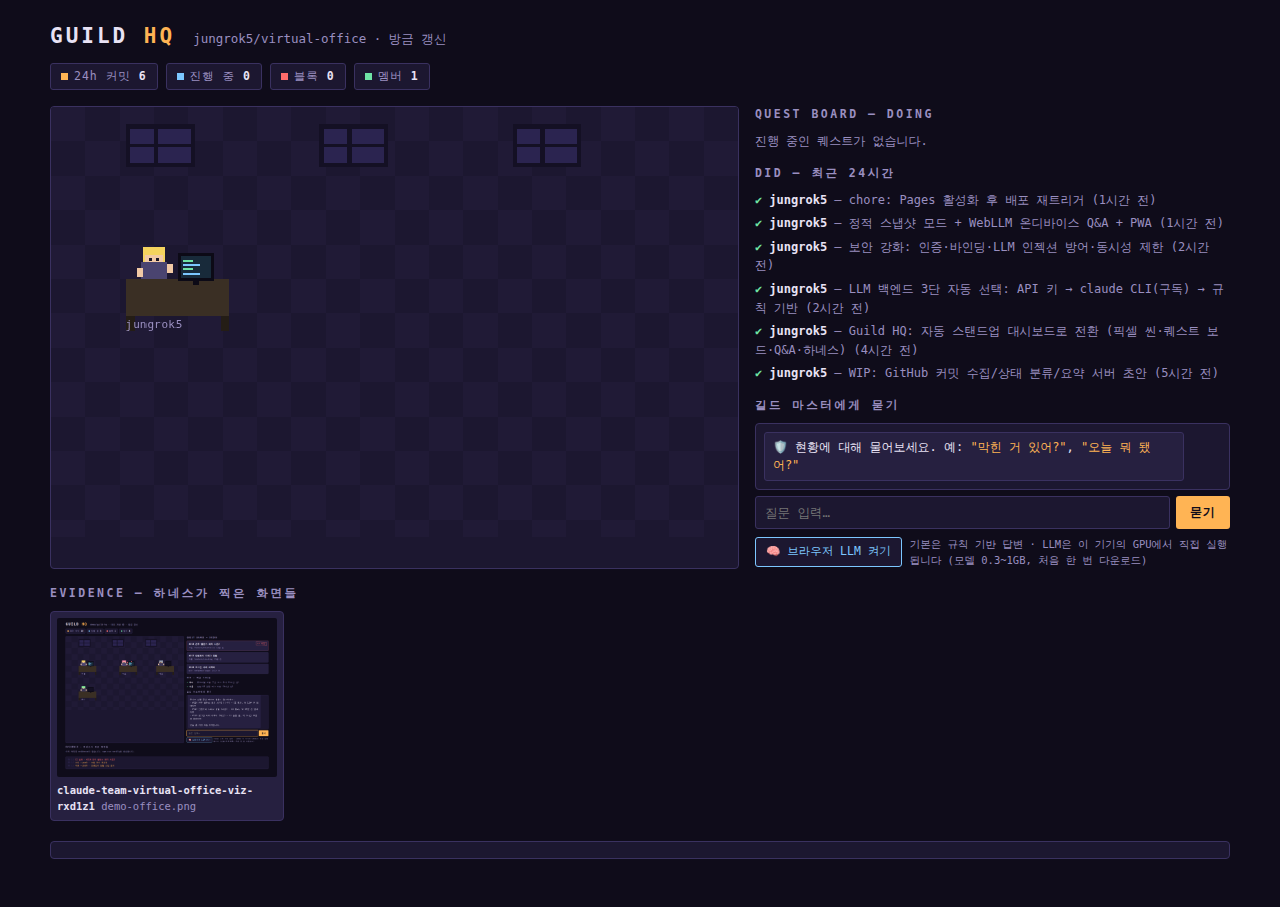
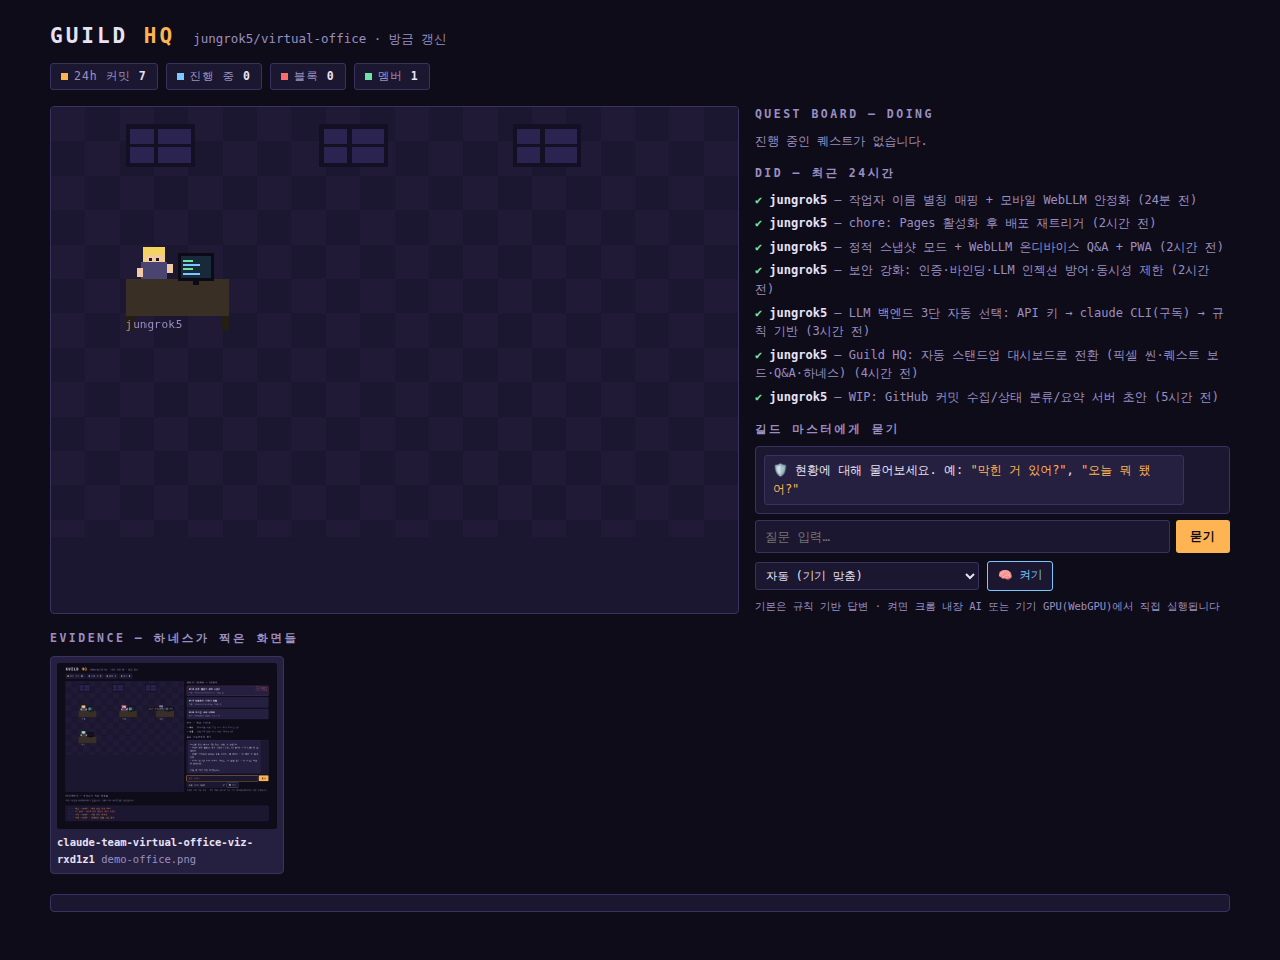
온디바이스 LLM 엔진 사다리: 크롬 내장 AI → WebLLM Qwen3.5(기기 맞춤) → 규칙
- 크롬 내장 AI(Gemini Nano, Prompt API/크롬 148+) 지원 — 별도 다운로드 없이 답변,
  auto/내장 선택 시 우선 시도. 질문마다 새 세션으로 컨텍스트 누적 방지
- WebLLM 모델을 Qwen2.5 0.5B/1.5B → Qwen3.5 라인으로 업그레이드:
  deviceMemory 기반 자동 선택 (플래그십 폰·PC 4B / 중급 2B / 저사양 0.8B),
  드롭다운으로 0.8B·2B·4B·9B 수동 선택 (localStorage 기억)
- 내장 실패 → WebLLM → 규칙 기반 순 폴백 유지

검증: npm run verify 9/9 통과

Claude-Session: https://claude.ai/code/session_01ELsUVQAjdifXSpcZv86ZwV

diff --git a/public/app.js b/public/app.js
@@ -249,34 +249,86 @@
       `블록 ${state.stats.blocked}건, 활동 멤버 ${state.stats.members}명. 멤버 이름으로 물으면 개인 현황을 알려드립니다.`;
   }
 
-  // ---- WebLLM: 브라우저(WebGPU)에서 직접 도는 온디바이스 LLM (옵트인) ----
-  let llmEngine = null;
+  // ---- 온디바이스 LLM (옵트인) --------------------------------------------
+  // 엔진 사다리: ① 크롬 내장 AI(Gemini Nano, 다운로드 없음) → ② WebLLM(WebGPU) → ③ 규칙 기반
+  let llmEngine = null;       // WebLLM 엔진
+  let builtinReady = false;   // 크롬 내장 Prompt API 사용 가능
   let llmLoading = false;
   const llmBtn = document.getElementById('llm-btn');
   const llmStatus = document.getElementById('llm-status');
+  const llmSelect = document.getElementById('llm-model');
+  llmSelect.value = localStorage.getItem('guild-llm-model') ?? 'auto';
+  if (!llmSelect.value) llmSelect.value = 'auto';
+  llmSelect.addEventListener('change', () => localStorage.setItem('guild-llm-model', llmSelect.value));
 
-  llmBtn.addEventListener('click', async () => {
-    if (llmEngine || llmLoading) return;
+  // 기기 맞춤 기본 모델 (navigator.deviceMemory는 크롬에서 최대 8로 캡)
+  function autoModel() {
+    const mem = navigator.deviceMemory ?? 4;
+    const mobile = matchMedia('(max-width: 700px)').matches;
+    if (mem >= 8) return 'Qwen3.5-4B-q4f16_1-MLC';        // 플래그십 폰(S26 울트라급)·PC
+    if (mem >= 4) return 'Qwen3.5-2B-q4f16_1-MLC';
+    return mobile ? 'Qwen3.5-0.8B-q4f16_1-MLC' : 'Qwen3.5-2B-q4f16_1-MLC';
+  }
+
+  async function tryBuiltin() {
+    if (!('LanguageModel' in self)) return false;
+    try {
+      const avail = await LanguageModel.availability();
+      if (avail === 'unavailable') return false;
+      llmStatus.textContent = avail === 'available'
+        ? '크롬 내장 AI 준비 중…'
+        : '크롬 내장 모델 다운로드 중 (브라우저가 관리, 이 탭 용량 아님)…';
+      const probe = await LanguageModel.create({
+        monitor(m) {
+          m.addEventListener('downloadprogress', (e) => {
+            llmStatus.textContent = `크롬 내장 모델 다운로드 ${Math.round((e.loaded ?? 0) * 100)}%`;
+          });
+        },
+      });
+      probe.destroy?.();
+      builtinReady = true;
+      llmStatus.textContent = '✅ 크롬 내장 AI(Gemini Nano) 준비됨 — 추가 다운로드 없이 기기에서 답변';
+      return true;
+    } catch {
+      builtinReady = false;
+      return false;
+    }
+  }
+
+  async function loadWebLlm(modelId) {
     if (!navigator.gpu) {
       llmStatus.textContent = '이 브라우저는 WebGPU를 지원하지 않습니다 — 규칙 기반으로 답합니다.';
-      return;
+      return false;
     }
-    llmLoading = true; llmBtn.disabled = true;
+    llmStatus.textContent = 'WebLLM 라이브러리 로딩…';
+    const webllm = await import('https://esm.run/@mlc-ai/web-llm');
+    llmEngine = await webllm.CreateMLCEngine(modelId, {
+      initProgressCallback: (p) =>
+        { llmStatus.textContent = `${modelId.split('-q4')[0]} 준비 중 ${Math.round((p.progress ?? 0) * 100)}% — 처음 한 번만 내려받습니다`; },
+    });
+    llmStatus.textContent = `✅ 온디바이스 LLM 준비됨 (${modelId.split('-q4')[0]}) — 답변이 기기 GPU에서 생성됩니다`;
+    return true;
+  }
+
+  llmBtn.addEventListener('click', async () => {
+    if (llmEngine || builtinReady || llmLoading) return;
+    llmLoading = true; llmBtn.disabled = true; llmSelect.disabled = true;
+    const choice = llmSelect.value;
     try {
-      llmStatus.textContent = 'WebLLM 라이브러리 로딩…';
-      const webllm = await import('https://esm.run/@mlc-ai/web-llm');
-      // 모바일은 0.5B, 데스크톱은 1.5B — 한국어가 되는 Qwen 계열 소형 모델
-      const model = matchMedia('(max-width: 700px)').matches
-        ? 'Qwen2.5-0.5B-Instruct-q4f16_1-MLC'
-        : 'Qwen2.5-1.5B-Instruct-q4f16_1-MLC';
-      llmEngine = await webllm.CreateMLCEngine(model, {
-        initProgressCallback: (p) =>
-          { llmStatus.textContent = `모델 준비 중 ${Math.round((p.progress ?? 0) * 100)}% — 처음 한 번만 내려받습니다`; },
-      });
-      llmStatus.textContent = `✅ 온디바이스 LLM 준비됨 (${model.split('-Instruct')[0]}) — 답변이 기기에서 생성됩니다`;
-      llmBtn.hidden = true;
+      // 내장 AI 우선 (auto/builtin 선택 시) — 다운로드 부담이 없다
+      if (choice === 'auto' || choice === 'builtin') {
+        if (await tryBuiltin()) { llmLoading = false; return; }
+        if (choice === 'builtin') {
+          llmStatus.textContent = '이 브라우저엔 내장 AI가 없습니다 (크롬 148+ 필요) — 아래에서 모델을 골라 다시 켜주세요.';
+          llmBtn.disabled = false; llmSelect.disabled = false; llmLoading = false;
+          return;
+        }
+      }
+      const modelId = choice.startsWith('Qwen') ? choice : autoModel();
+      if (!(await loadWebLlm(modelId))) { llmBtn.disabled = false; llmSelect.disabled = false; }
     } catch (err) {
-      llmEngine = null; llmBtn.disabled = false;
+      llmEngine = null;
+      llmBtn.disabled = false; llmSelect.disabled = false;
       llmStatus.textContent = `LLM 로드 실패 (${String(err.message ?? err).slice(0, 50)}) — 규칙 기반으로 답합니다.`;
     }
     llmLoading = false;
@@ -313,7 +365,27 @@
     return res.choices?.[0]?.message?.content?.trim();
   }
 
+  // 크롬 내장 AI: 질문마다 새 세션 (컨텍스트 누적·쿼터 문제 방지)
+  async function builtinOnce(q) {
+    const session = await LanguageModel.create();
+    try {
+      const answer = await session.prompt(
+        '너는 개발팀 현황판의 안내원이다. 아래 데이터만 근거로 질문에 한국어로 짧게 답하라. ' +
+        '데이터에 없는 내용은 "데이터에 없습니다"라고 답하라.\n\n' +
+        llmContext() + '\n\n질문: ' + q
+      );
+      return answer?.trim();
+    } finally {
+      session.destroy?.();
+    }
+  }
+
   async function askClient(q) {
+    if (builtinReady) {
+      try {
+        return (await builtinOnce(q)) || clientRules(q);
+      } catch { /* 내장 실패 → WebLLM/규칙으로 */ }
+    }
     if (!llmEngine) return clientRules(q);
     try {
       return (await llmOnce(q)) || clientRules(q);

diff --git a/public/index.html b/public/index.html
@@ -46,8 +46,16 @@
           <button type="submit">묻기</button>
         </form>
         <div class="llm-row" id="llm-row" hidden>
-          <button type="button" id="llm-btn">🧠 브라우저 LLM 켜기</button>
-          <span id="llm-status">기본은 규칙 기반 답변 · LLM은 이 기기의 GPU에서 직접 실행됩니다 (모델 0.3~1GB, 처음 한 번 다운로드)</span>
+          <select id="llm-model" aria-label="온디바이스 모델 선택">
+            <option value="auto">자동 (기기 맞춤)</option>
+            <option value="builtin">크롬 내장 AI (다운로드 없음)</option>
+            <option value="Qwen3.5-0.8B-q4f16_1-MLC">빠름 · Qwen3.5 0.8B (1.6GB)</option>
+            <option value="Qwen3.5-2B-q4f16_1-MLC">균형 · Qwen3.5 2B (2.2GB)</option>
+            <option value="Qwen3.5-4B-q4f16_1-MLC">고품질 · Qwen3.5 4B (3.9GB)</option>
+            <option value="Qwen3.5-9B-q4f16_1-MLC">최고 · Qwen3.5 9B (6.4GB·PC)</option>
+          </select>
+          <button type="button" id="llm-btn">🧠 켜기</button>
+          <span id="llm-status">기본은 규칙 기반 답변 · 켜면 크롬 내장 AI 또는 기기 GPU(WebGPU)에서 직접 실행됩니다</span>
         </div>
       </section>
     </aside>

diff --git a/public/style.css b/public/style.css
@@ -96,7 +96,11 @@ h1 .hq { color: var(--amber); }
   font-size: 12px; letter-spacing: 1px; padding: 6px 14px; border-radius: 3px; cursor: pointer;
 }
 .ask button:disabled { opacity: .5; cursor: wait; }
-.llm-row { display: flex; align-items: flex-start; gap: 8px; margin-top: 8px; }
+.llm-row { display: flex; align-items: center; gap: 8px; margin-top: 8px; flex-wrap: wrap; }
+.llm-row select {
+  background: var(--floor); color: var(--text); border: 1px solid var(--line);
+  font: inherit; font-size: 11.5px; padding: 5px 6px; border-radius: 3px; max-width: 100%;
+}
 .llm-row button {
   flex: 0 0 auto; background: var(--floor); color: var(--sky); border: 1px solid var(--sky);
   font: inherit; font-size: 11.5px; padding: 5px 10px; border-radius: 3px; cursor: pointer;

diff --git a/README.md b/README.md
@@ -78,10 +78,13 @@ npm run verify:demo   # 데모만
 GitHub Pages로 배포한다 → `https://<owner>.github.io/<repo>/`
 
 - 프론트는 서버(`/api/state`)가 없으면 자동으로 `state.json`을 읽는 정적 모드로 전환된다.
-- **Q&A도 서버 없이 동작한다**: 기본은 규칙 기반, "🧠 브라우저 LLM 켜기"를 누르면
-  WebLLM이 Qwen 소형 모델(모바일 0.5B / 데스크톱 1.5B)을 내려받아
-  **이 기기의 GPU(WebGPU)에서 직접** 답변을 생성한다. API도 구독도 필요 없다.
-  (WebGPU 미지원 브라우저는 규칙 기반 유지. 크롬/엣지 데스크톱, 안드로이드 크롬 지원)
+- **Q&A도 서버 없이 동작한다** — 엔진 사다리 (API·구독 불필요):
+  1. **크롬 내장 AI (Gemini Nano)** — 크롬 148+의 Prompt API. 별도 다운로드 없이
+     브라우저 내장 모델로 답변 (auto/내장 선택 시 우선 시도)
+  2. **WebLLM (WebGPU)** — Qwen3.5 라인을 기기 GPU에서 직접 실행.
+     기기 맞춤 자동 선택: 플래그십 폰·PC는 4B(3.9GB), 중급 2B, 저사양 0.8B.
+     드롭다운으로 0.8B~9B 수동 선택 가능 (한 번 받으면 캐시)
+  3. **규칙 기반** — 둘 다 없으면 LLM 없이 데이터 조회 답변
 - **PWA**: 모바일 브라우저에서 "홈 화면에 추가"하면 앱처럼 설치된다. 오프라인엔 마지막 스냅샷 표시.
 - 로컬 미리보기: `node scripts/build-static.mjs` 후 `dist/`를 아무 정적 서버로 서빙.
 - 주의: Pages는 인증이 없다 — 리포가 퍼블릭이면 현황판도 퍼블릭이다.
